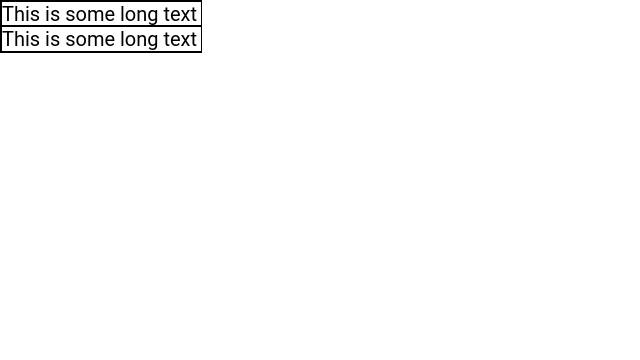
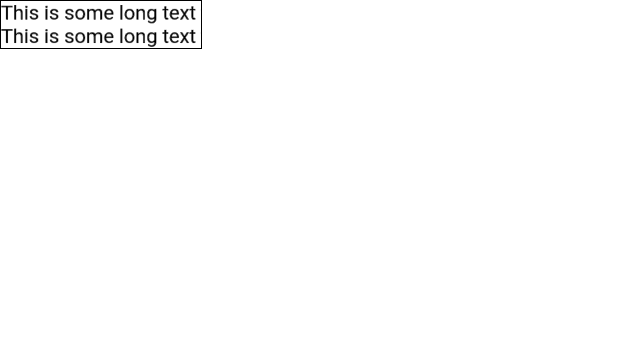
Make content align to start edge of line on overflow
Previously, inline-level content was always left-aligned if content
overflowed the line. However, this is incorrect if the base direction
of the line is right-to-left. Now, the inline-level content aligns
to the start edge of the line (left-aligned for LTR and right-aligned
for RTL).

Layout tests have been added to verify this.

Changed region(s): [[0.0, 0.0, 0.3125, 0.1528]]

diff --git a/cobalt/layout_tests/testdata/css-2-1/16-2-text-align-should-not-apply-when-child-boxes-overflow.html b/cobalt/layout_tests/testdata/css-2-1/16-2-text-align-should-not-apply-when-child-boxes-overflow.html
@@ -1,13 +1,14 @@
 <!DOCTYPE html>
 <html>
 <!--
- | Do not shift child boxes when the inline-level boxes already overflow.
- |   https://www.w3.org/TR/CSS21/text.html#propdef-text-align
+ | Content alignment should be based on the start edge of the line when the
+ | inline-level boxes overflow.
+ |   https://www.w3.org/TR/css-text/#text-align
  -->
 <head>
   <style>
     body {
-      margin: 0px;
+      margin: 0px 0px 0px 100px;
       font-family: Roboto;
       width: 200px;
       font-size: 15px;
@@ -38,16 +39,28 @@
   </style>
 </head>
 <body>
-  <div class="container left">
-    <div class="bluebg">a loooooong child box</div>
+  <div dir="ltr" class="container left">
+    <div class="bluebg">a loooooong child</div>
   </div>
 
-  <div class="container center">
-    <div class="greybg">a loooooong child box</div>
+  <div dir="ltr" class="container center">
+    <div class="greybg">a loooooong child</div>
   </div>
 
-  <div class="container right">
-    <div class="bluebg">a loooooong child box</div>
+  <div dir="ltr" class="container right">
+    <div class="bluebg">a loooooong child</div>
+  </div>
+
+  <div dir="rtl" class="container left">
+    <div class="bluebg">a loooooong child</div>
+  </div>
+
+  <div dir="rtl" class="container center">
+    <div class="greybg">a loooooong child</div>
+  </div>
+
+  <div dir="rtl" class="container right">
+    <div class="bluebg">a loooooong child</div>
   </div>
 </body>
 </html>

diff --git a/cobalt/layout_tests/testdata/css3-ui/5-2-text-overflow-clip-should-not-display-ellipsis-on-overflow.html b/cobalt/layout_tests/testdata/css3-ui/5-2-text-overflow-clip-should-not-display-ellipsis-on-overflow.html
@@ -12,7 +12,7 @@
       font-family: Roboto;
       font-size: 20px;
     }
-    div {
+    .containing-block {
       white-space: nowrap;
       width: 200px;
       overflow: hidden;

diff --git a/cobalt/layout/line_box.cc b/cobalt/layout/line_box.cc
@@ -398,41 +398,29 @@ void LineBox::ReverseChildBoxesMeetingBidiLevelThreshold(int level) {
 }
 
 void LineBox::UpdateChildBoxLeftPositions() {
-  // Determine the horizontal offset to apply to the child boxes from the value
-  // calculated from "text-align", which is vaguely specified by
-  // https://www.w3.org/TR/css-text-3/#text-align
   float horizontal_offset = 0;
-  if (text_align_ == cssom::KeywordValue::GetLeft() ||
-      (text_align_ == cssom::KeywordValue::GetStart() &&
-       base_direction_ != kRightToLeftBaseDirection) ||
-      (text_align_ == cssom::KeywordValue::GetEnd() &&
-       base_direction_ == kRightToLeftBaseDirection) ||
-      layout_params_.containing_block_size.width() < shrink_to_fit_width_) {
-    // When the total width of the inline-level boxes on a line is less than
-    // the width of the line box containing them, their horizontal distribution
-    // within the line box is determined by the "text-align" property.
-    //   https://www.w3.org/TR/CSS21/visuren.html#inline-formatting
-    //
-    // So do not shift child boxes when the inline-level boxes already overflow,
-    // also do not shift if text-alignment is to the left.
-    // TODO(***REMOVED***): Change the logic to left-aligning on overflow if the
-    // direction is LTR and to right-aligning on overflow if the direction is
-    // RTL. Holding off on doing this for now, because RTL ellipsis support
-    // should be added at the same time or the effect will be odd.
-  } else if (text_align_ == cssom::KeywordValue::GetCenter()) {
-    // The text-alignment is to the center, so offset by half of the available
-    // width. This places half of the available width on each side of the boxes.
-    horizontal_offset = GetAvailableWidth() / 2;
-  } else if (text_align_ == cssom::KeywordValue::GetRight() ||
-             (text_align_ == cssom::KeywordValue::GetStart() &&
-              base_direction_ == kRightToLeftBaseDirection) ||
-             (text_align_ == cssom::KeywordValue::GetEnd() &&
-              base_direction_ != kRightToLeftBaseDirection)) {
-    // The text-alignment is to the right, so offset by the full available
-    // width. This places all of the available space to the left of the boxes.
-    horizontal_offset = GetAvailableWidth();
-  } else {
-    NOTREACHED() << "Unknown value of \"text-align\".";
+
+  // Determine the horizontal offset to apply to the child boxes from the
+  // horizontal alignment.
+  HorizontalAlignment horizontal_alignment = ComputeHorizontalAlignment();
+  switch (horizontal_alignment) {
+    case kLeftHorizontalAlignment:
+      // The horizontal alignment is to the left, so no offset needs to be
+      // applied based on the alignment. This places all of the available space
+      // to the right of the boxes.
+      break;
+    case kCenterHorizontalAlignment:
+      // The horizontal alignment is to the center, so offset by half of the
+      // available width. This places half of the available width on each side
+      // of the boxes.
+      horizontal_offset = GetAvailableWidth() / 2;
+      break;
+    case kRightHorizontalAlignment:
+      // The horizontal alignment is to the right, so offset by the full
+      // available width. This places all of the available space to the left of
+      // the boxes.
+      horizontal_offset = GetAvailableWidth();
+      break;
   }
 
   // Determine the horizontal offset to add to the child boxes from the indent
@@ -683,6 +671,54 @@ void LineBox::MaybePlaceEllipsis() {
 float LineBox::GetHeightAboveMiddleAlignmentPoint(Box* child_box) {
   return (child_box->GetInlineLevelBoxHeight() + font_metrics_.x_height()) /
          2.0f;
+}
+
+LineBox::HorizontalAlignment LineBox::ComputeHorizontalAlignment() const {
+  // When the total width of the inline-level boxes on a line is less than
+  // the width of the line box containing them, their horizontal distribution
+  // within the line box is determined by the "text-align" property.
+  //   https://www.w3.org/TR/CSS21/visuren.html#inline-formatting.
+  // text-align is vaguely specified by
+  // https://www.w3.org/TR/css-text-3/#text-align.
+
+  HorizontalAlignment horizontal_alignment;
+  if (layout_params_.containing_block_size.width() < shrink_to_fit_width_) {
+    // If the content has overflowed the line, then do not base horizontal
+    // alignment on the value of text-align. Instead, simply rely upon the base
+    // direction of the line, so that inline-level content begins at the
+    // starting edge of the line.
+    horizontal_alignment = base_direction_ == kRightToLeftBaseDirection
+                               ? kRightHorizontalAlignment
+                               : kLeftHorizontalAlignment;
+  } else if (text_align_ == cssom::KeywordValue::GetStart()) {
+    // If the value of text-align is start, then inline-level content is aligned
+    // to the start edge of the line box.
+    horizontal_alignment = base_direction_ == kRightToLeftBaseDirection
+                               ? kRightHorizontalAlignment
+                               : kLeftHorizontalAlignment;
+  } else if (text_align_ == cssom::KeywordValue::GetEnd()) {
+    // If the value of text-align is end, then inline-level content is aligned
+    // to the end edge of the line box.
+    horizontal_alignment = base_direction_ == kRightToLeftBaseDirection
+                               ? kLeftHorizontalAlignment
+                               : kRightHorizontalAlignment;
+  } else if (text_align_ == cssom::KeywordValue::GetLeft()) {
+    // If the value of text-align is left, then inline-level content is aligned
+    // to the left line edge.
+    horizontal_alignment = kLeftHorizontalAlignment;
+  } else if (text_align_ == cssom::KeywordValue::GetRight()) {
+    // If the value of text-align is right, then inline-level content is aligned
+    // to the right line edge.
+    horizontal_alignment = kRightHorizontalAlignment;
+  } else if (text_align_ == cssom::KeywordValue::GetCenter()) {
+    // If the value of text-align is center, then inline-content is centered
+    // within the line box.
+    horizontal_alignment = kCenterHorizontalAlignment;
+  } else {
+    NOTREACHED() << "Unknown value of \"text-align\".";
+    horizontal_alignment = kLeftHorizontalAlignment;
+  }
+  return horizontal_alignment;
 }
 
 }  // namespace layout

diff --git a/cobalt/layout/line_box.h b/cobalt/layout/line_box.h
@@ -121,6 +121,12 @@ class LineBox {
   float baseline_offset_from_top() const { return baseline_offset_from_top_; }
 
  private:
+  enum HorizontalAlignment {
+    kLeftHorizontalAlignment,
+    kCenterHorizontalAlignment,
+    kRightHorizontalAlignment,
+  };
+
   float GetAvailableWidth() const;
   void UpdateSizePreservingTrailingWhiteSpace(Box* child_box);
   bool ShouldCollapseLeadingWhiteSpaceInNextChildBox() const;
@@ -137,6 +143,7 @@ class LineBox {
   void MaybePlaceEllipsis();
 
   float GetHeightAboveMiddleAlignmentPoint(Box* child_box);
+  HorizontalAlignment ComputeHorizontalAlignment() const;
 
   const float top_;
   const bool position_children_relative_to_baseline_;
